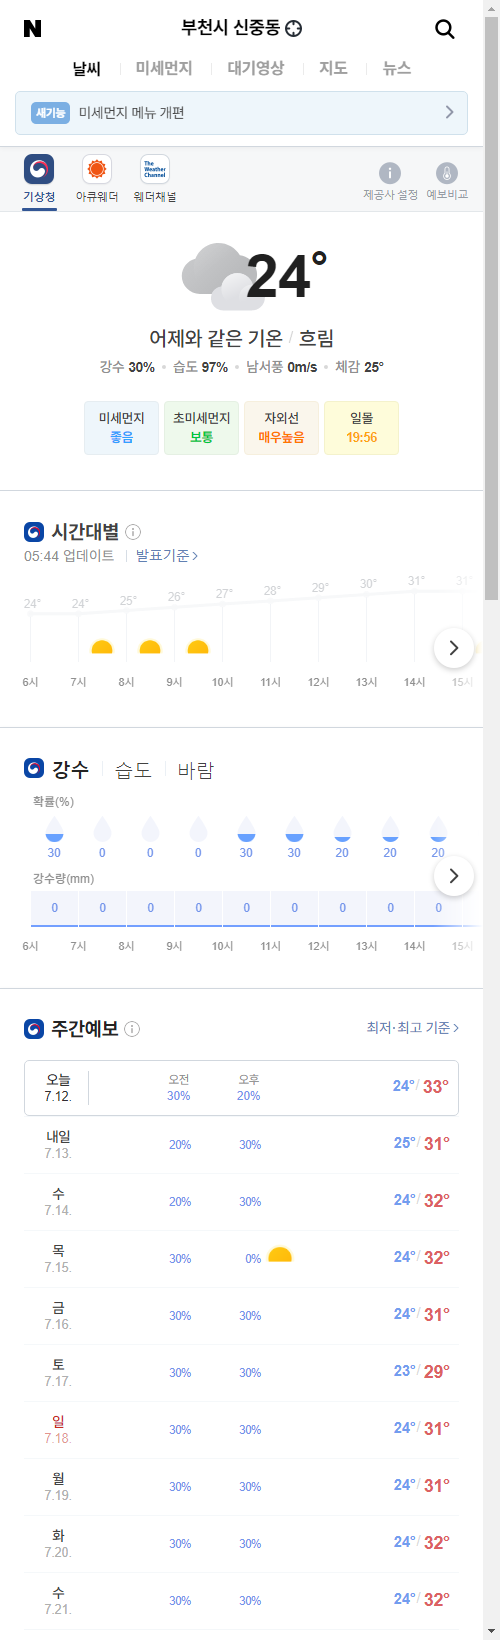
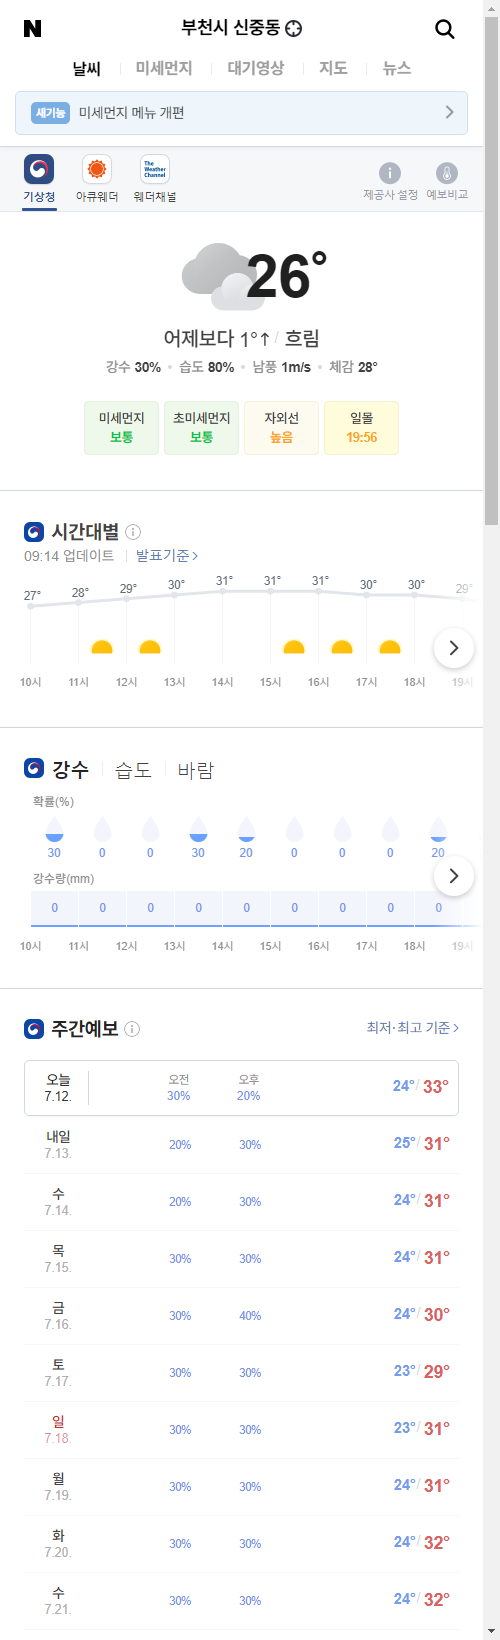
update result

diff --git a/README.md b/README.md
@@ -1,5 +1,5 @@
-##  2021-07-12 05:54:35   월요일 
-##### 날씨   -   어제와 같은 기온흐림  
+##  2021-07-12 09:16:37   월요일 
+##### 날씨   -   어제보다 1° 높아요흐림  
 <center><img src="../img/naver_weather_week.png"></center>
 ----
 ----
@@ -23,7 +23,7 @@
 ##### 시장
 <table border="1" bordercolor="blue" align = "center" >
 <tr align = "right" > <td>Item</td><td>Price</td><td>Diff</td><td>Rate</td><td>Buy</td><td>Sell</td><td>...</td>  </tr>
-<tr align = "right" > <td>USD</td><td>1,148.0</td><td>-1.0</td><td><font size="3" color="blue">-0.09%</font></td><td><font size="3" color="black">1,110</font></td><td><font size="3" color="black">0</font></td><td>0</td>  </tr>
+<tr align = "right" > <td>USD</td><td>1,145.0</td><td>-2.8</td><td><font size="3" color="blue">-0.24%</font></td><td><font size="3" color="black">1,110</font></td><td><font size="3" color="black">0</font></td><td>0</td>  </tr>
 <tr align = "right" > <td>WTI</td><td>74.56</td><td>1.62</td><td><font size="3" color="red">2.22%</font></td><td><font size="3" color="black">29.0</font></td><td><font size="3" color="black">0</font></td><td>0</td>  </tr>
 <tr align = "right" > <td>GOLD</td><td>1,810.0</td><td>10.4</td><td><font size="3" color="red">0.57%</font></td><td><font size="3" color="black">0</font></td><td><font size="3" color="black">0</font></td><td>0</td>  </tr>
 </table>
@@ -31,26 +31,26 @@
 ##### 주가
 <table border="1" bordercolor="blue" align = "center" >
 <tr align = "right" > <td>Item</td><td>Price</td><td>Diff</td><td>Rate</td><td>Purchased</td><td>Sell</td><td>Buy</td>  </tr>
-<tr align = "right" > <td>한국 전력</td><td>24,300</td><td>-200</td><td><font size="3" color="blue">-0.82%</font></td><td>25,720</td><td><font size="3" color="black">27,700</font></td><td><font size="3" color="black">20,700</font></td>  </tr>
-<tr align = "right" > <td>삼성엔지니어.</td><td>23,000</td><td>150</td><td><font size="3" color="red">0.66%</font></td><td>18,935</td><td><font size="3" color="black">20,000</font></td><td><font size="3" color="black">8,000</font></td>  </tr>
-<tr align = "right" > <td>CJ CGV</td><td>29,400</td><td>-350</td><td><font size="3" color="blue">-1.18%</font></td><td>34,895</td><td><font size="3" color="black">36,000</font></td><td><font size="3" color="black">0</font></td>  </tr>
-<tr align = "right" > <td>아모레퍼시픽</td><td>239,500</td><td>-8,000</td><td><font size="3" color="blue">-3.23%</font></td><td>235,350</td><td><font size="3" color="black">240,000</font></td><td><font size="3" color="black">130,000</font></td>  </tr>
-<tr align = "right" > <td>한화</td><td>30,000</td><td>-500</td><td><font size="3" color="blue">-1.64%</font></td><td>25,550</td><td><font size="3" color="black">26,250</font></td><td><font size="3" color="black">26,250</font></td>  </tr>
-<tr align = "right" > <td>NAVER</td><td>415,500</td><td>-6,500</td><td><font size="3" color="blue">-1.54%</font></td><td>147,200</td><td><font size="3" color="black">386,000</font></td><td><font size="3" color="black">286,000</font></td>  </tr>
-<tr align = "right" > <td>LG 화학우</td><td>373,000</td><td>-9,500</td><td><font size="3" color="blue">-2.48%</font></td><td>202,490</td><td><font size="3" color="black">384,000</font></td><td><font size="3" color="orangered">384,000</font></td>  </tr>
-<tr align = "right" > <td>스튜디오드래.</td><td>92,900</td><td>-1,700</td><td><font size="3" color="blue">-1.8%</font></td><td>81,243</td><td><font size="3" color="black">85,200</font></td><td><font size="3" color="black">85,200</font></td>  </tr>
-<tr align = "right" > <td>QV미국IT</td><td>31,075</td><td>-255</td><td><font size="3" color="blue">-0.81%</font></td><td>0</td><td><font size="3" color="black">30,000</font></td><td><font size="3" color="black">20,000</font></td>  </tr>
-<tr align = "right" > <td>삼성 전자우</td><td>72,200</td><td>-500</td><td><font size="3" color="blue">-0.69%</font></td><td>48,250</td><td><font size="3" color="black">56,000</font></td><td><font size="3" color="black">45,000</font></td>  </tr>
-<tr align = "right" > <td>LS</td><td>67,500</td><td>-1,800</td><td><font size="3" color="blue">-2.6%</font></td><td>71,900</td><td><font size="3" color="black">82,000</font></td><td><font size="3" color="black">60,000</font></td>  </tr>
-<tr align = "right" > <td>한화에어로스.</td><td>51,300</td><td>500</td><td><font size="3" color="red">0.98%</font></td><td>25,700</td><td><font size="3" color="black">30,000</font></td><td><font size="3" color="black">24,000</font></td>  </tr>
-<tr align = "right" > <td>카카오</td><td>160,500</td><td>-2,500</td><td><font size="3" color="blue">-1.53%</font></td><td>405,500</td><td><font size="3" color="black">440,000</font></td><td><font size="3" color="orangered">400,000</font></td>  </tr>
-<tr align = "right" > <td>호텔 신라</td><td>92,700</td><td>-100</td><td><font size="3" color="blue">-0.11%</font></td><td>72,800</td><td><font size="3" color="black">100,000</font></td><td><font size="3" color="black">70,000</font></td>  </tr>
-<tr align = "right" > <td>S-Oil</td><td>102,000</td><td>1,000</td><td><font size="3" color="red">0.99%</font></td><td>62,842</td><td><font size="3" color="black">100,000</font></td><td><font size="3" color="black">50,000</font></td>  </tr>
-<tr align = "right" > <td>LG전자</td><td>159,000</td><td>-1,000</td><td><font size="3" color="blue">-0.62%</font></td><td>82,022</td><td><font size="3" color="black">100,000</font></td><td><font size="3" color="black">60,000</font></td>  </tr>
-<tr align = "right" > <td>KT&G</td><td>82,200</td><td>-800</td><td><font size="3" color="blue">-0.96%</font></td><td>80,400</td><td><font size="3" color="black">100,000</font></td><td><font size="3" color="black">70,000</font></td>  </tr>
-<tr align = "right" > <td>지역난방공사</td><td>42,250</td><td>-200</td><td><font size="3" color="blue">-0.47%</font></td><td>43,590</td><td><font size="3" color="black">60,000</font></td><td><font size="3" color="black">30,000</font></td>  </tr>
-<tr align = "right" > <td>KOEDX은행</td><td>7,195</td><td>-175</td><td><font size="3" color="blue">-2.37%</font></td><td>5,178</td><td><font size="3" color="black">6,225</font></td><td><font size="3" color="black">6,225</font></td>  </tr>
-<tr align = "right" > <td>글로벌럭셔리</td><td>17,900</td><td>-120</td><td><font size="3" color="blue">-0.67%</font></td><td>15,260</td><td><font size="3" color="black">20,000</font></td><td><font size="3" color="black">10,000</font></td>  </tr>
-<tr align = "right" > <td>한국금융지주</td><td>95,200</td><td>-2,700</td><td><font size="3" color="blue">-2.76%</font></td><td>0</td><td><font size="3" color="black">82,000</font></td><td><font size="3" color="black">60,000</font></td>  </tr>
+<tr align = "right" > <td>한국 전력</td><td>24,800</td><td>500</td><td><font size="3" color="red">2.06%</font></td><td>25,720</td><td><font size="3" color="black">27,700</font></td><td><font size="3" color="black">20,700</font></td>  </tr>
+<tr align = "right" > <td>삼성엔지니어.</td><td>22,800</td><td>-200</td><td><font size="3" color="blue">-0.87%</font></td><td>18,935</td><td><font size="3" color="black">20,000</font></td><td><font size="3" color="black">8,000</font></td>  </tr>
+<tr align = "right" > <td>CJ CGV</td><td>29,750</td><td>350</td><td><font size="3" color="red">1.19%</font></td><td>34,895</td><td><font size="3" color="black">36,000</font></td><td><font size="3" color="black">0</font></td>  </tr>
+<tr align = "right" > <td>아모레퍼시픽</td><td>240,000</td><td>500</td><td><font size="3" color="red">0.21%</font></td><td>235,350</td><td><font size="3" color="black">240,000</font></td><td><font size="3" color="black">130,000</font></td>  </tr>
+<tr align = "right" > <td>한화</td><td>30,350</td><td>350</td><td><font size="3" color="red">1.17%</font></td><td>25,550</td><td><font size="3" color="black">26,250</font></td><td><font size="3" color="black">26,250</font></td>  </tr>
+<tr align = "right" > <td>NAVER</td><td>415,500</td><td>0</td><td><font size="3" color="black">0.0%</font></td><td>147,200</td><td><font size="3" color="black">386,000</font></td><td><font size="3" color="black">286,000</font></td>  </tr>
+<tr align = "right" > <td>LG 화학우</td><td>376,000</td><td>3,000</td><td><font size="3" color="red">0.8%</font></td><td>202,490</td><td><font size="3" color="black">384,000</font></td><td><font size="3" color="orangered">384,000</font></td>  </tr>
+<tr align = "right" > <td>스튜디오드래.</td><td>93,300</td><td>400</td><td><font size="3" color="red">0.43%</font></td><td>81,243</td><td><font size="3" color="black">85,200</font></td><td><font size="3" color="black">85,200</font></td>  </tr>
+<tr align = "right" > <td>QV미국IT</td><td>31,075</td><td>0</td><td><font size="3" color="black">0.0%</font></td><td>0</td><td><font size="3" color="black">30,000</font></td><td><font size="3" color="black">20,000</font></td>  </tr>
+<tr align = "right" > <td>삼성 전자우</td><td>72,700</td><td>500</td><td><font size="3" color="red">0.69%</font></td><td>48,250</td><td><font size="3" color="black">56,000</font></td><td><font size="3" color="black">45,000</font></td>  </tr>
+<tr align = "right" > <td>LS</td><td>68,300</td><td>800</td><td><font size="3" color="red">1.19%</font></td><td>71,900</td><td><font size="3" color="black">82,000</font></td><td><font size="3" color="black">60,000</font></td>  </tr>
+<tr align = "right" > <td>한화에어로스.</td><td>51,200</td><td>-100</td><td><font size="3" color="blue">-0.19%</font></td><td>25,700</td><td><font size="3" color="black">30,000</font></td><td><font size="3" color="black">24,000</font></td>  </tr>
+<tr align = "right" > <td>카카오</td><td>159,000</td><td>-1,500</td><td><font size="3" color="blue">-0.93%</font></td><td>405,500</td><td><font size="3" color="black">440,000</font></td><td><font size="3" color="orangered">400,000</font></td>  </tr>
+<tr align = "right" > <td>호텔 신라</td><td>93,800</td><td>1,100</td><td><font size="3" color="red">1.19%</font></td><td>72,800</td><td><font size="3" color="black">100,000</font></td><td><font size="3" color="black">70,000</font></td>  </tr>
+<tr align = "right" > <td>S-Oil</td><td>103,500</td><td>1,500</td><td><font size="3" color="red">1.47%</font></td><td>62,842</td><td><font size="3" color="black">100,000</font></td><td><font size="3" color="black">50,000</font></td>  </tr>
+<tr align = "right" > <td>LG전자</td><td>159,500</td><td>500</td><td><font size="3" color="red">0.31%</font></td><td>82,022</td><td><font size="3" color="black">100,000</font></td><td><font size="3" color="black">60,000</font></td>  </tr>
+<tr align = "right" > <td>KT&G</td><td>82,900</td><td>700</td><td><font size="3" color="red">0.85%</font></td><td>80,400</td><td><font size="3" color="black">100,000</font></td><td><font size="3" color="black">70,000</font></td>  </tr>
+<tr align = "right" > <td>지역난방공사</td><td>42,250</td><td>0</td><td><font size="3" color="black">0.0%</font></td><td>43,590</td><td><font size="3" color="black">60,000</font></td><td><font size="3" color="black">30,000</font></td>  </tr>
+<tr align = "right" > <td>KOEDX은행</td><td>7,365</td><td>170</td><td><font size="3" color="red">2.36%</font></td><td>5,178</td><td><font size="3" color="black">6,225</font></td><td><font size="3" color="black">6,225</font></td>  </tr>
+<tr align = "right" > <td>글로벌럭셔리</td><td>18,165</td><td>265</td><td><font size="3" color="red">1.48%</font></td><td>15,260</td><td><font size="3" color="black">20,000</font></td><td><font size="3" color="black">10,000</font></td>  </tr>
+<tr align = "right" > <td>한국금융지주</td><td>97,100</td><td>1,900</td><td><font size="3" color="red">2.0%</font></td><td>0</td><td><font size="3" color="black">82,000</font></td><td><font size="3" color="black">60,000</font></td>  </tr>
 </table>
 ----
